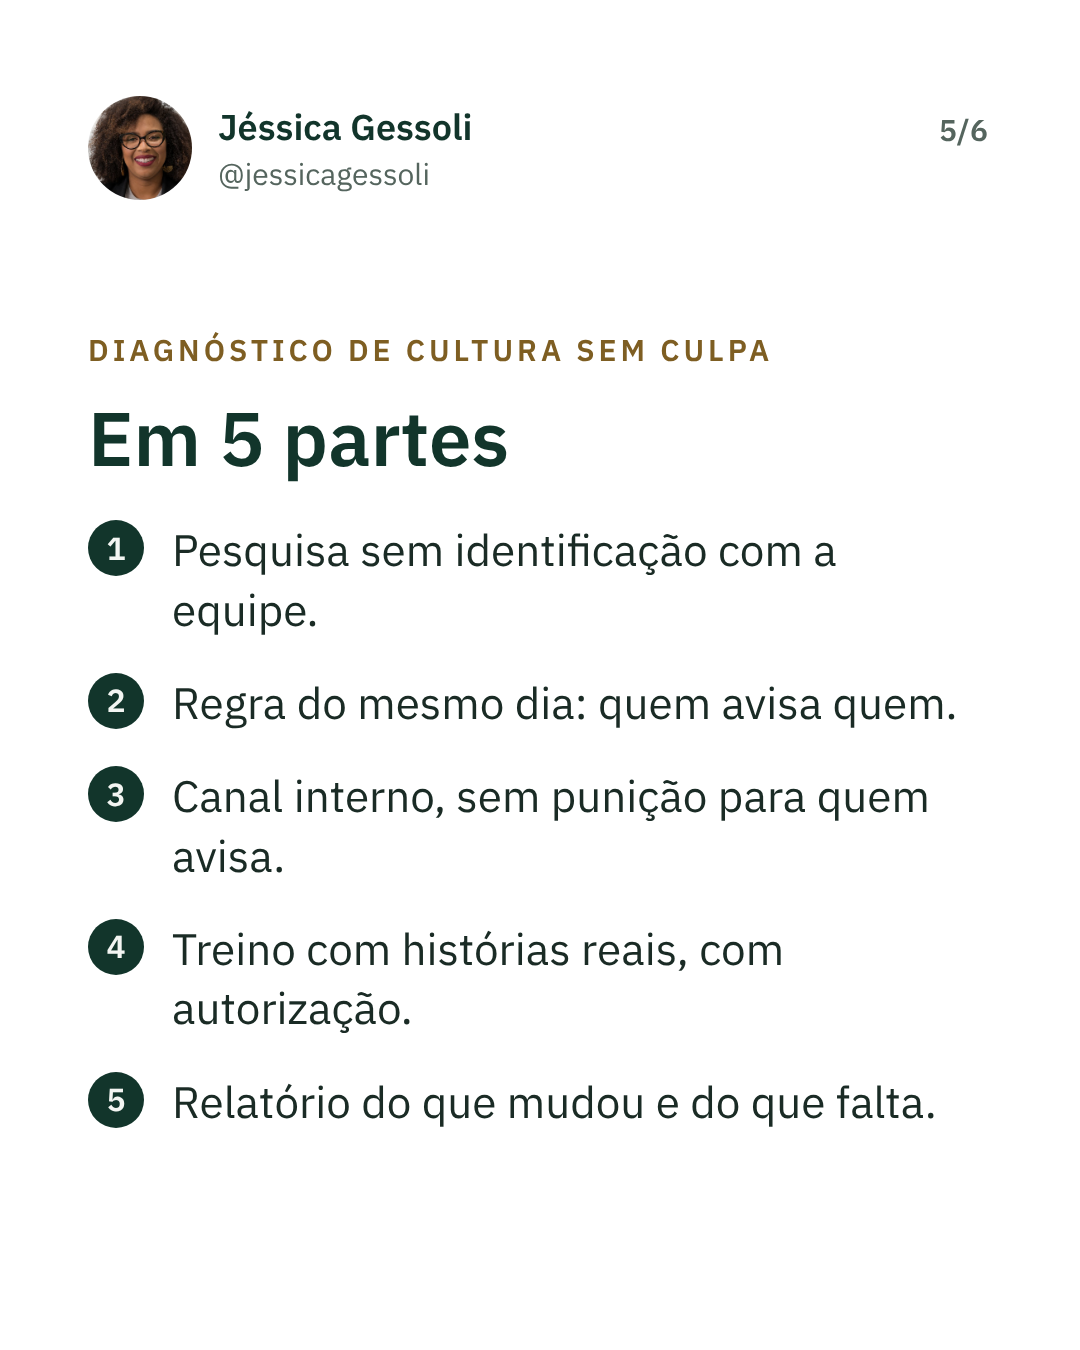
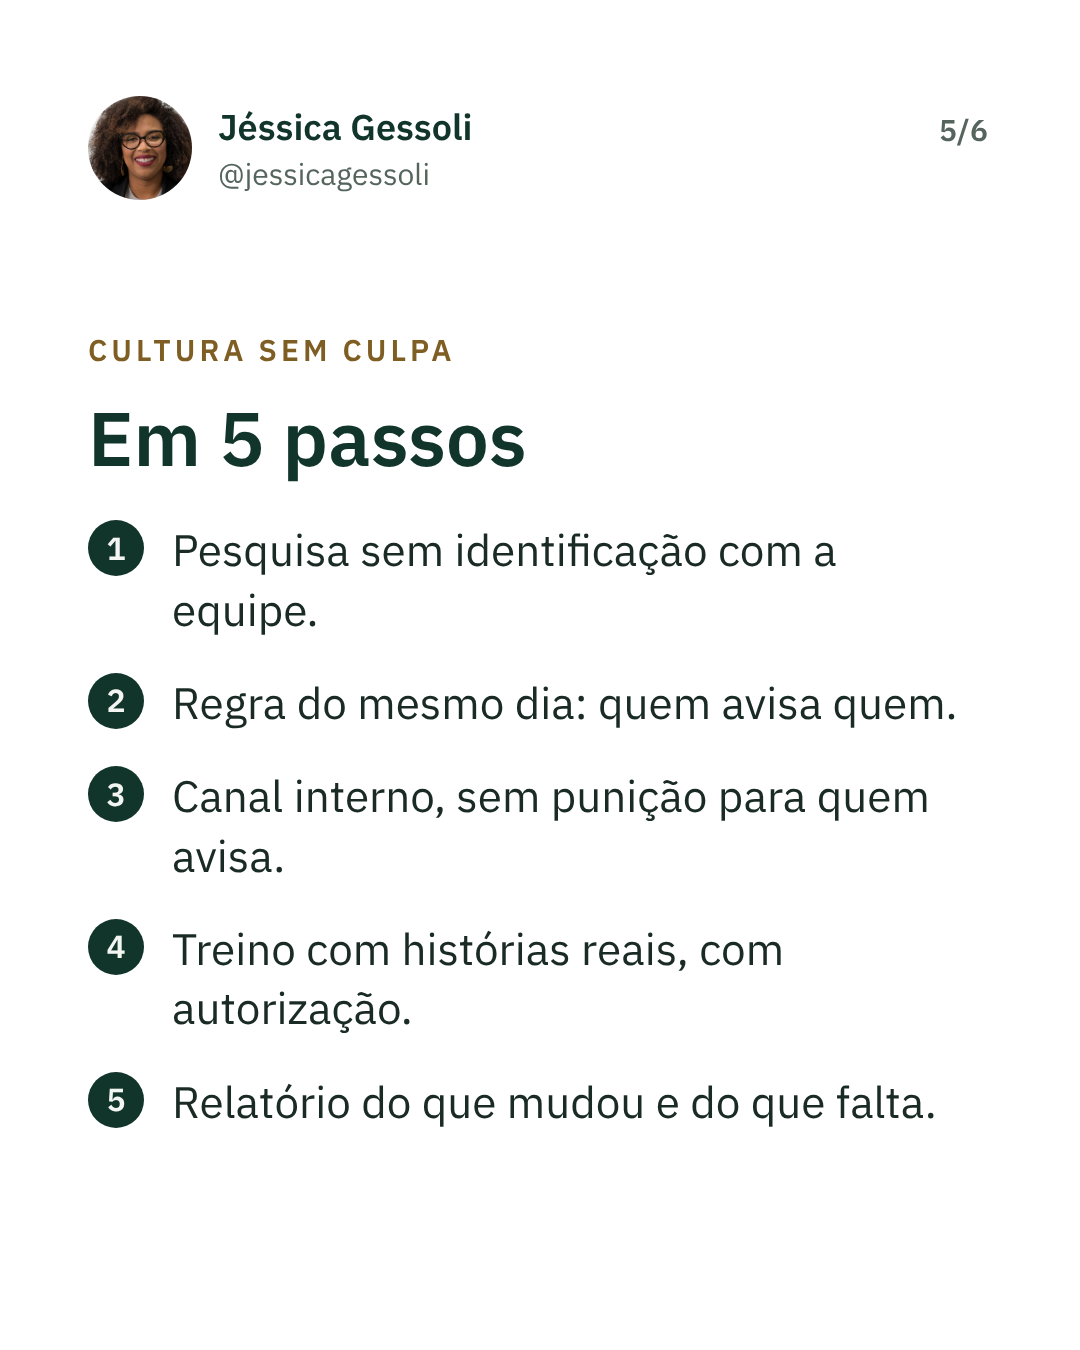
LinkedIn pessoal sem oferta da Zethic (regra de 25/10): post de 26/10 vira conteúdo de autoridade e convite da Jéssica no primeiro comentário
Claude-Session: https://claude.ai/code/session_014grh3uaSABRrhKanxqxRUA

Changed region(s): [[0.0917, 0.2489, 0.7028, 0.28], [0.3361, 0.3111, 0.4889, 0.3733]]

diff --git a/campaigns/social/frentes-conte-2026-10/out/2026-10-26-cultura-sem-culpa-5.html b/campaigns/social/frentes-conte-2026-10/out/2026-10-26-cultura-sem-culpa-5.html
@@ -54,4 +54,4 @@ body.s-por{background:#F3F5F2}
 .chk{position:absolute;left:88px;top:860px;display:flex;gap:26px}.chk div{width:92px;height:92px;border:6px solid #D9B76E;border-radius:16px;position:relative}
 .chk div.ok{background:#D9B76E}.chk div.ok:after{content:"";position:absolute;left:28px;top:8px;width:22px;height:46px;border:solid #12352B;border-width:0 10px 10px 0;transform:rotate(45deg)}
 body.s-lat{background:#D9B76E;color:#12352B}.s-lat .at,.s-lat .pg{color:#12352B;opacity:.75}.s-lat mark{background:none;color:#12352B;text-decoration:underline;text-decoration-thickness:8px;text-underline-offset:14px;padding:0}.s-lat .qm,.s-lat .qa{color:#12352B}
-</style></head><body class=""><div class="hdr"><div class="av"></div><div><div class="nm">Jéssica Gessoli</div><div class="at">@jessicagessoli</div></div></div><div class="pg">5/6</div><div class="box"><div class="eb">DIAGNÓSTICO DE CULTURA SEM CULPA</div><div class="tt">Em 5 partes</div><ol><li>Pesquisa sem identificação com a equipe.</li><li>Regra do mesmo dia: quem avisa quem.</li><li>Canal interno, sem punição para quem avisa.</li><li>Treino com histórias reais, com autorização.</li><li>Relatório do que mudou e do que falta.</li></ol></div></body></html>
+</style></head><body class=""><div class="hdr"><div class="av"></div><div><div class="nm">Jéssica Gessoli</div><div class="at">@jessicagessoli</div></div></div><div class="pg">5/6</div><div class="box"><div class="eb">CULTURA SEM CULPA</div><div class="tt">Em 5 passos</div><ol><li>Pesquisa sem identificação com a equipe.</li><li>Regra do mesmo dia: quem avisa quem.</li><li>Canal interno, sem punição para quem avisa.</li><li>Treino com histórias reais, com autorização.</li><li>Relatório do que mudou e do que falta.</li></ol></div></body></html>

diff --git a/campaigns/social/frentes-conte-2026-10/textos.py b/campaigns/social/frentes-conte-2026-10/textos.py
@@ -1,6 +1,8 @@
 # Textos das frentes do tema "Conte o seu golpe" (rascunhos de 21/10/2026, aguardando ok da Jéssica).
 
 CALENDLY = "https://calendly.com/jessica-gessoli-zethic/conversa-de-30-minutos-com-a-jessica-gessoli"
+# 25/10/2026: regra das marcas independentes. O LinkedIn pessoal convida para oportunidades da Jéssica, não para serviço da Zethic.
+CONVITE_JG = "Quer me convidar para uma palestra, um podcast ou um projeto sobre Cibersegurança e IA? Vamos conversar 30 minutos: " + CALENDLY
 
 # ---------- Frente 3: Diagnóstico de cultura sem culpa (LinkedIn próprio, 26/10 às 17h) ----------
 CULTURA_LI = """Se alguém do financeiro fosse vítima de golpe hoje, quando a diretoria saberia?
@@ -11,7 +13,7 @@ Em 2025, 57,6% dos 1.200 profissionais de TI e segurança ouvidos pela Bitdefend
 
 Áreas que levam erro a sério fizeram o contrário. Desde 1976, a NASA recebe relatos de erro na aviação com confidencialidade e sem punição. São mais de 2,3 milhões.
 
-Por isso, dentro do Programa Antigolpe da Zethic, passo a oferecer o Diagnóstico de cultura sem culpa:
+O que uma empresa pode fazer, em 5 passos:
 1. Pesquisa sem identificação com a equipe, com uma pergunta central: se você fosse vítima de golpe, contaria para quem?
 2. Regra do mesmo dia: quem avisa quem, e o que fazer na primeira hora (banco, boletim, registro).
 3. Canal interno de relato, sem punição para quem avisa.
@@ -27,9 +29,8 @@ Este conteúdo também está no Instagram @jessicagessoli, onde eu traduzo Ciber
 CULTURA_LI_COMENTARIO = f"""Fontes:
 Bitdefender, 2025 Cybersecurity Assessment Report (1.200 profissionais): 57,6% receberam ordem de manter incidente em sigilo: https://www.businesswire.com/news/home/20250624779014/en
 NASA, Aviation Safety Reporting System: 2.321.050 relatos de abr/1976 a dez/2025: https://asrs.arc.nasa.gov/docs/ASRS_ProgramBriefing.pdf
-Programa Antigolpe da Zethic: https://zethic.net/proteger#antigolpe
 
-Se a sua diretoria quer transformar risco cibernético em decisão, vamos conversar 30 minutos: {CALENDLY}"""
+{CONVITE_JG}"""
 
 CULTURA_TITULO_PDF = "Se alguém do financeiro fosse vítima de golpe, quando a diretoria saberia?"
 
@@ -38,7 +39,7 @@ CULTURA_ALT = [
  "O silêncio tem número: 57,6% dos 1.200 profissionais de TI e segurança ouvidos pela Bitdefender em 2025 já receberam ordem para manter um incidente em sigilo.",
  "Quem aprende com erro: a aviação faz o contrário. Desde 1976, a NASA recebe relatos de erro com confidencialidade e sem punição. São mais de 2,3 milhões.",
  "A pergunta central: Se você fosse vítima de golpe, contaria para quem? A resposta da equipe mostra onde o próximo golpe vai se esconder.",
- "Diagnóstico de cultura sem culpa, em 5 partes: 1. Pesquisa sem identificação com a equipe. 2. Regra do mesmo dia: quem avisa quem. 3. Canal interno, sem punição para quem avisa. 4. Treino com histórias reais, com autorização. 5. Relatório do que mudou e do que falta.",
+ "Cultura sem culpa em 5 passos: 1. Pesquisa sem identificação com a equipe. 2. Regra do mesmo dia: quem avisa quem. 3. Canal interno, sem punição para quem avisa. 4. Treino com histórias reais, com autorização. 5. Relatório do que mudou e do que falta.",
  "Agora me responde: que frase a sua equipe ouviria primeiro? Como você não percebeu? Ou: que bom que você avisou rápido.",
 ]
 
@@ -77,9 +78,7 @@ FAMILIA_LI = FAMILIA_IG.replace(
  "Manda este post no grupo da família.\n\nFontes: Febelfin, AARP e FBI (links no primeiro comentário).\n\n#golpe #família #pix #segurançadigital",
  "Na sua equipe, quem cuida dos pais idosos já combinou isso em casa?\n\nEste conteúdo também está no Instagram @jessicagessoli, onde eu traduzo Cibersegurança e IA para quem é dono do Negócio.\n\n#golpe #família #pix #segurançadigital #cibersegurança")
 
-FAMILIA_LI_COMENTARIO = FAMILIA_COMENTARIO + f"""
-
-Quer saber onde o seu Negócio está mais exposto a golpe e vazamento de dados? Vamos conversar 30 minutos: {CALENDLY}"""
+FAMILIA_LI_COMENTARIO = FAMILIA_COMENTARIO + "\n\n" + CONVITE_JG
 
 FAMILIA_TITULO_PDF = "Se os seus pais fossem vítimas de golpe, eles contariam pra você?"
 

diff --git a/campaigns/social/frentes-conte-2026-10/posts.py b/campaigns/social/frentes-conte-2026-10/posts.py
@@ -7,7 +7,7 @@ POSTS = [
    ("text", "O SILÊNCIO TEM NÚMERO", "57,6%", "dos 1.200 profissionais de TI e segurança ouvidos pela Bitdefender em 2025 já receberam ordem para [[manter um incidente em sigilo]]."),
    ("text", "QUEM APRENDE COM ERRO", "A aviação faz o contrário", "Desde 1976, a NASA recebe relatos de erro com confidencialidade e [[sem punição]]. São mais de 2,3 milhões."),
    ("text", "A PERGUNTA CENTRAL", "Se você fosse vítima de golpe, contaria para quem?", "A resposta da equipe mostra [[onde o próximo golpe vai se esconder]]."),
-   ("list", "DIAGNÓSTICO DE CULTURA SEM CULPA", "Em 5 partes", ["Pesquisa sem identificação com a equipe.", "Regra do mesmo dia: quem avisa quem.", "Canal interno, sem punição para quem avisa.", "Treino com histórias reais, com autorização.", "Relatório do que mudou e do que falta."]),
+   ("list", "CULTURA SEM CULPA", "Em 5 passos", ["Pesquisa sem identificação com a equipe.", "Regra do mesmo dia: quem avisa quem.", "Canal interno, sem punição para quem avisa.", "Treino com histórias reais, com autorização.", "Relatório do que mudou e do que falta."]),
    ("end", "AGORA ME RESPONDE", "Que frase a sua equipe [[ouviria primeiro?]]", "\"Como você não percebeu?\" ou \"Que bom que você avisou rápido\"."),
   ],
   texto=""),
